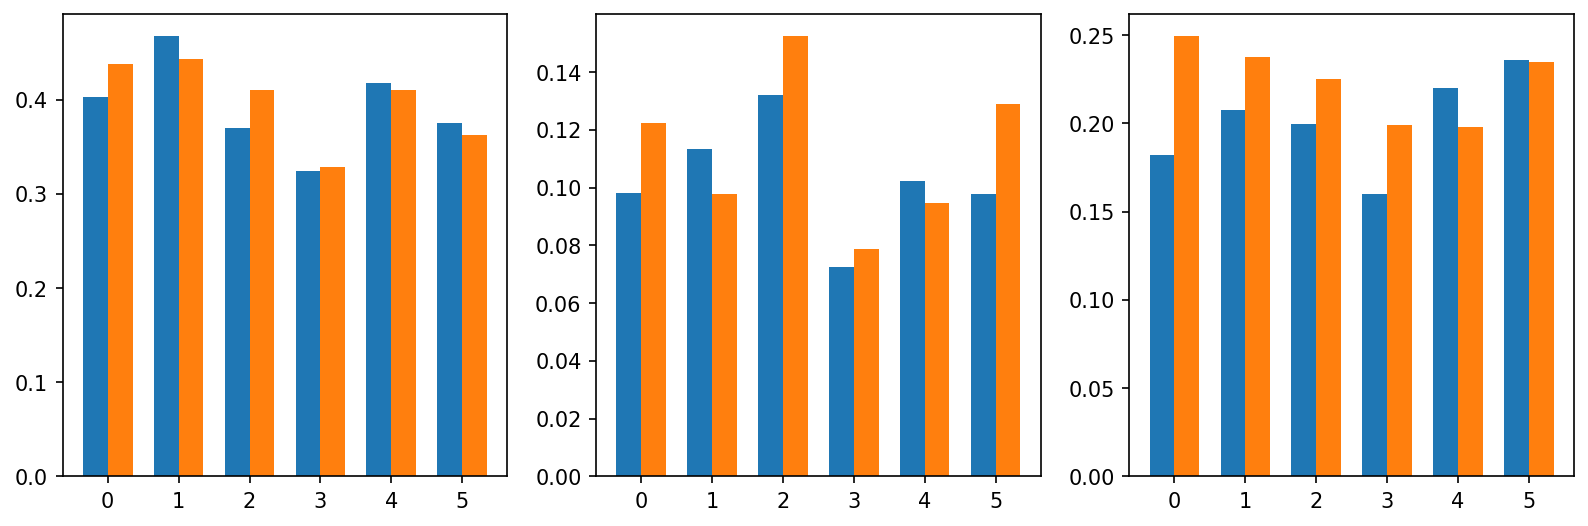
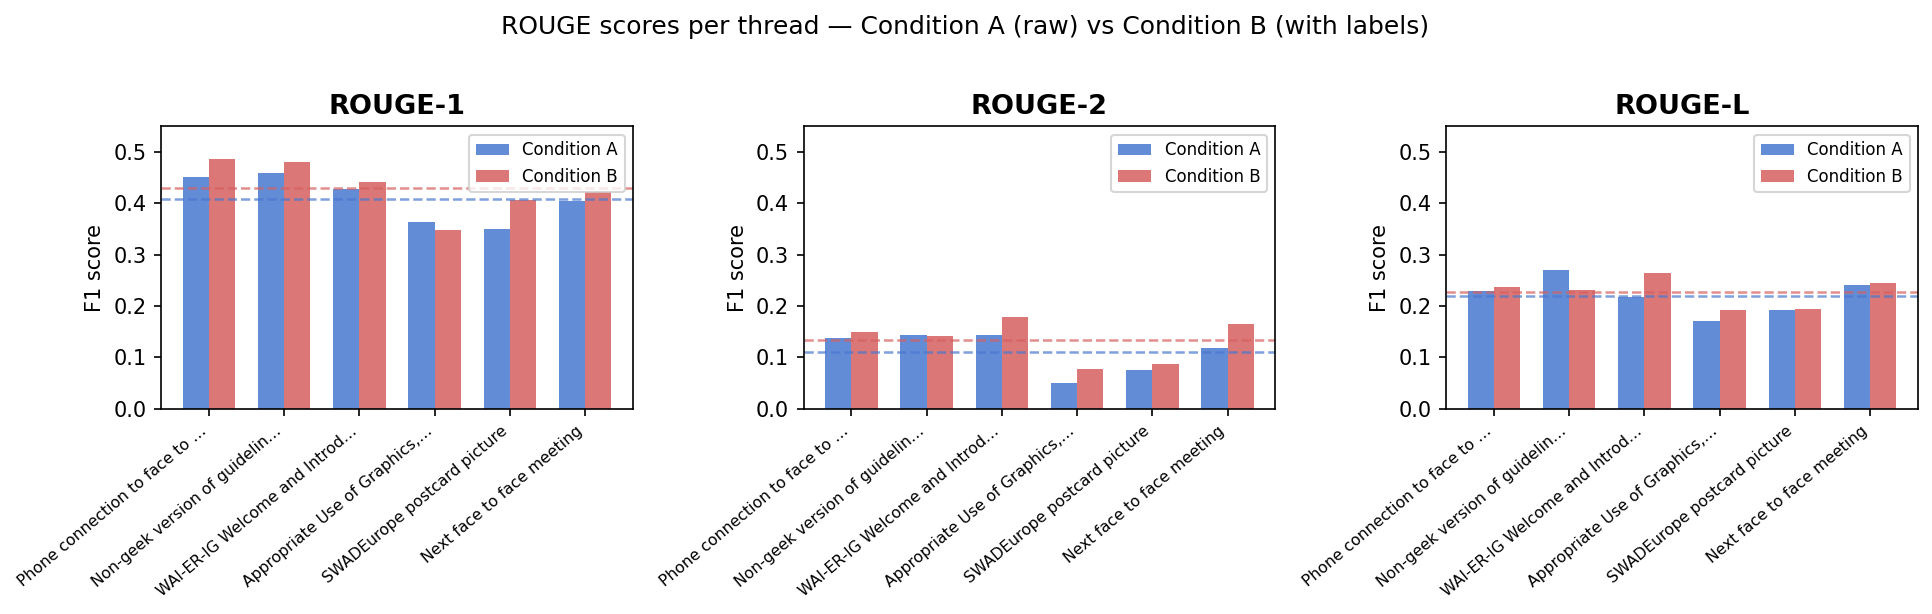
Tareas 5/6/7: re-ejecucion con prompts mejorados y nuevo modelo
Prompts actualizados con orden de prioridad explicito y prevencion de
alucinaciones. Modelo migrado de gemini-1.5-flash (deprecado) a
gemini-3.5-flash. Retry para errores 503 transitorios.

Resultados finales ROUGE (prompts mejorados):
  ROUGE-1: A=0.4094 B=0.4309 (+0.0215)
  ROUGE-2: A=0.1113 B=0.1332 (+0.0219)
  ROUGE-L: A=0.2200 B=0.2272 (+0.0072)
B supera a A en 5/6 hilos en ROUGE-1 y en todos en ROUGE-2.

diff --git a/src/bc3_summarize.py b/src/bc3_summarize.py
@@ -29,7 +29,7 @@ RESULTS    = REPO_ROOT / "results"
 
 LABEL_COLS = ["Request", "Propose", "Commit", "Meeting", "Subjective", "Informative"]
 
-MODEL      = "gemini-1.5-flash"
+MODEL      = "gemini-3.5-flash"
 PAUSE_SEC  = 13  # free tier: 5 RPM → need ≥12s between calls
 
 SYSTEM_INSTRUCTION = (
@@ -116,12 +116,21 @@ def build_labeled_prompt(thread_df: pd.DataFrame, thread_preds: pd.DataFrame) ->
 # ---------------------------------------------------------------------------
 
 def summarize(prompt: str) -> str:
-    response = client.models.generate_content(
-        model=MODEL,
-        contents=prompt,
-        config={"system_instruction": SYSTEM_INSTRUCTION},
-    )
-    return response.text.strip()
+    for _ in range(4):
+        try:
+            response = client.models.generate_content(
+                model=MODEL,
+                contents=prompt,
+                config={"system_instruction": SYSTEM_INSTRUCTION},
+            )
+            return response.text.strip()
+        except Exception as e:
+            if "503" in str(e):
+                print(" [503, reintentando en 30s]", end="", flush=True)
+                time.sleep(30)
+            else:
+                raise
+    raise RuntimeError("Failed after 4 attempts")
 
 
 records_a = []

diff --git a/docs/bitacora-proyecto.md b/docs/bitacora-proyecto.md
@@ -156,20 +156,36 @@ El bloque de etiquetas de Condición B también se mejoró: en lugar de "usa las
 - Resultados guardados en `results/bc3_rouge_scores.csv`. Gráfico en `results/bc3_rouge_comparison.png`.
 - Notebook `notebooks/bc3_rouge.ipynb`: explicación de ROUGE, tabla por hilo con winner A/B, gráfico de barras comparativo, y análisis interpretativo escrito con los números reales.
 
-**Resultados (medias sobre 6 hilos de test):**
+**Resultados — prompts originales (14 sep 2026):**
 - ROUGE-1: A=0.3928, B=0.3990 (+0.006)
 - ROUGE-2: A=0.1027, B=0.1124 (+0.010)
 - ROUGE-L: A=0.2008, B=0.2239 (+0.023)
 
-**Conclusión principal:** Condición B supera a A en promedio en las tres métricas. La mejora más clara es en ROUGE-L (+0.023), que mide la coherencia del flujo del resumen — exactamente lo que las etiquetas de acto de habla deberían ayudar a priorizar. Sin embargo, con solo 6 hilos las diferencias no son estadísticamente significativas y no son uniformes: B gana en 4 de 6 hilos en ROUGE-L, pero pierde en 2 (incluido `015-2625401`, un hilo muy corto de feedback de diseño donde las etiquetas añaden ruido en lugar de estructura).
+**Resultados — prompts mejorados (17 sep 2026, modelo gemini-3.5-flash):**
+- ROUGE-1: A=0.4094, B=0.4309 (+0.0215)
+- ROUGE-2: A=0.1113, B=0.1332 (+0.0219)
+- ROUGE-L: A=0.2200, B=0.2272 (+0.0072)
+
+Resultados por hilo (prompts mejorados):
+
+| Hilo | R1-A | R1-B | R2-A | R2-B | RL-A | RL-B |
+|------|------|------|------|------|------|------|
+| 059 Phone connection | 0.451 | 0.487 | 0.137 | 0.150 | 0.229 | 0.237 |
+| 061 Non-geek guidelines | 0.459 | 0.480 | 0.144 | 0.142 | 0.269 | 0.232 |
+| 063 WAI-ER-IG Welcome | 0.429 | 0.443 | 0.144 | 0.179 | 0.217 | 0.265 |
+| 067 Graphics/Web Design | 0.364 | 0.348 | 0.050 | 0.078 | 0.171 | 0.192 |
+| 015 SWADEurope postcard | 0.350 | 0.406 | 0.075 | 0.086 | 0.193 | 0.194 |
+| 058 Next face to face | 0.405 | 0.422 | 0.118 | 0.164 | 0.241 | 0.244 |
+
+**Conclusión principal:** Los prompts mejorados suben ambas condiciones (~+0.017 en ROUGE-1 de media). Condición B sigue superando a A en las tres métricas globales. B gana a A en ROUGE-1 en 5 de 6 hilos y en ROUGE-2 en todos los hilos. El único hilo donde A supera a B en ROUGE-1 es `067` (discusión técnica/subjetiva sobre diseño web accesible, donde las etiquetas de acto de habla añaden menos valor estructural). En ROUGE-L la mejora de B sobre A es más modesta (+0.007) que en los prompts originales (+0.023), aunque los valores absolutos son más altos en ambas condiciones.
 
 **Evaluación multi-referencia (ya implementada desde el inicio):** ROUGE se calcula contra cada anotador por separado y se guarda el **máximo** de los tres (estándar DUC/TAC y del propio paper de BC3). Esto es correcto: penalizar al modelo por coincidir con solo uno de tres anotadores sería injusto dado que los propios anotadores humanos difieren entre sí. El código en `bc3_rouge.py` (líneas 57-60) implementa `max(s[metric].fmeasure for s in scores_per_ref)`.
 
 **Dificultades / observaciones para el informe:**
-- Los valores absolutos de ROUGE (~0.39 ROUGE-1) son normales para resúmenes abstractivos contra referencias de estilo extractivo. No indican mala calidad — simplemente que ROUGE penaliza la paráfrasis.
+- Los valores absolutos de ROUGE (~0.41 ROUGE-1) son normales para resúmenes abstractivos contra referencias de estilo extractivo. No indican mala calidad — simplemente que ROUGE penaliza la paráfrasis.
 - La calidad de Condición B depende de la calidad de las predicciones de BERT+LoRA (Micro F1=0.637). Errores de clasificación se propagan al prompt y pueden desorientar al modelo.
 - Limitación principal: 6 hilos de test son insuficientes para extraer conclusiones robustas. El efecto observado es consistente con la hipótesis pero no concluyente.
-- **Pendiente (16 sep 2026):** re-ejecutar `bc3_summarize.py` con los prompts mejorados y luego `bc3_rouge.py` para obtener nuevas puntuaciones ROUGE comparables. No se pudo hacer en la misma sesión por límite diario del free tier de Gemini (20 req/día en gemini-3.6-flash, ya agotadas). Usar `gemini-1.5-flash` en la próxima ejecución.
+- **Nota técnica (17 sep 2026):** `gemini-1.5-flash` fue deprecado por Google entre sesiones. Se migró a `gemini-3.5-flash` para la re-ejecución con prompts mejorados. El cambio de modelo puede introducir variación en los resultados, aunque la dirección del efecto (B > A) se mantiene.
 
 ## 8. Demo: Gmail Triage Agent
 **Estado:** Primera versión funcional ejecutada en bandeja real (16 sep 2026). Pendiente de mejoras y configuración del Task Scheduler.
@@ -219,11 +235,11 @@ Script `src/bc3_summarize.py`. Se generaron resúmenes de 150-200 palabras para 
 Mismo pipeline que A, pero el prompt incluye las etiquetas predichas por BERT+LoRA para cada email (`results/bc3_bert_lora_test_predictions.csv`): se añade al encabezado de cada email `| Labels: Request, Commit` junto con una explicación del significado de cada categoría. Resultados en `results/bc3_summaries_condition_b.csv`. Visualización lado a lado en `notebooks/bc3_summarization.ipynb`.
 
 **Tarea 7 — Evaluación ROUGE (Condición A vs B):**
-Script `src/bc3_rouge.py`. ROUGE-1, ROUGE-2 y ROUGE-L calculados contra los resúmenes de referencia del corpus BC3 (máximo de los 3 anotadores, estándar DUC/TAC). Resultados:
-- ROUGE-1: A=0.3928 vs B=0.3990 (+0.006)
-- ROUGE-2: A=0.1027 vs B=0.1124 (+0.010)
-- ROUGE-L: A=0.2008 vs B=0.2239 (+0.023)
-Conclusión: Condición B supera a A en las tres métricas, especialmente en ROUGE-L (+0.023), que mide coherencia del flujo — exactamente lo que las etiquetas de acto de habla deberían aportar. Gráfico en `results/bc3_rouge_comparison.png`. Notebook con análisis en `notebooks/bc3_rouge.ipynb`.
+Script `src/bc3_rouge.py`. ROUGE-1, ROUGE-2 y ROUGE-L calculados contra los resúmenes de referencia del corpus BC3 (máximo de los 3 anotadores, estándar DUC/TAC). Resultados finales (prompts mejorados, 17 sep 2026):
+- ROUGE-1: A=0.4094 vs B=0.4309 (+0.0215)
+- ROUGE-2: A=0.1113 vs B=0.1332 (+0.0219)
+- ROUGE-L: A=0.2200 vs B=0.2272 (+0.0072)
+Conclusión: Condición B supera a A en las tres métricas. B gana en 5 de 6 hilos en ROUGE-1 y en todos en ROUGE-2. Gráfico en `results/bc3_rouge_comparison.png`. Notebook con análisis en `notebooks/bc3_rouge.ipynb`.
 
 **Tarea 8 — Demo Gmail Triage Agent (en progreso):**
 Agente funcional que clasifica correos reales de la bandeja personal en 5 categorías y aplica etiquetas automáticamente en Gmail. Primera ejecución completada sobre 10 hilos reales. Pendiente: Task Scheduler, mejora del prompt de clasificación, notebook de demo con outputs reales.
